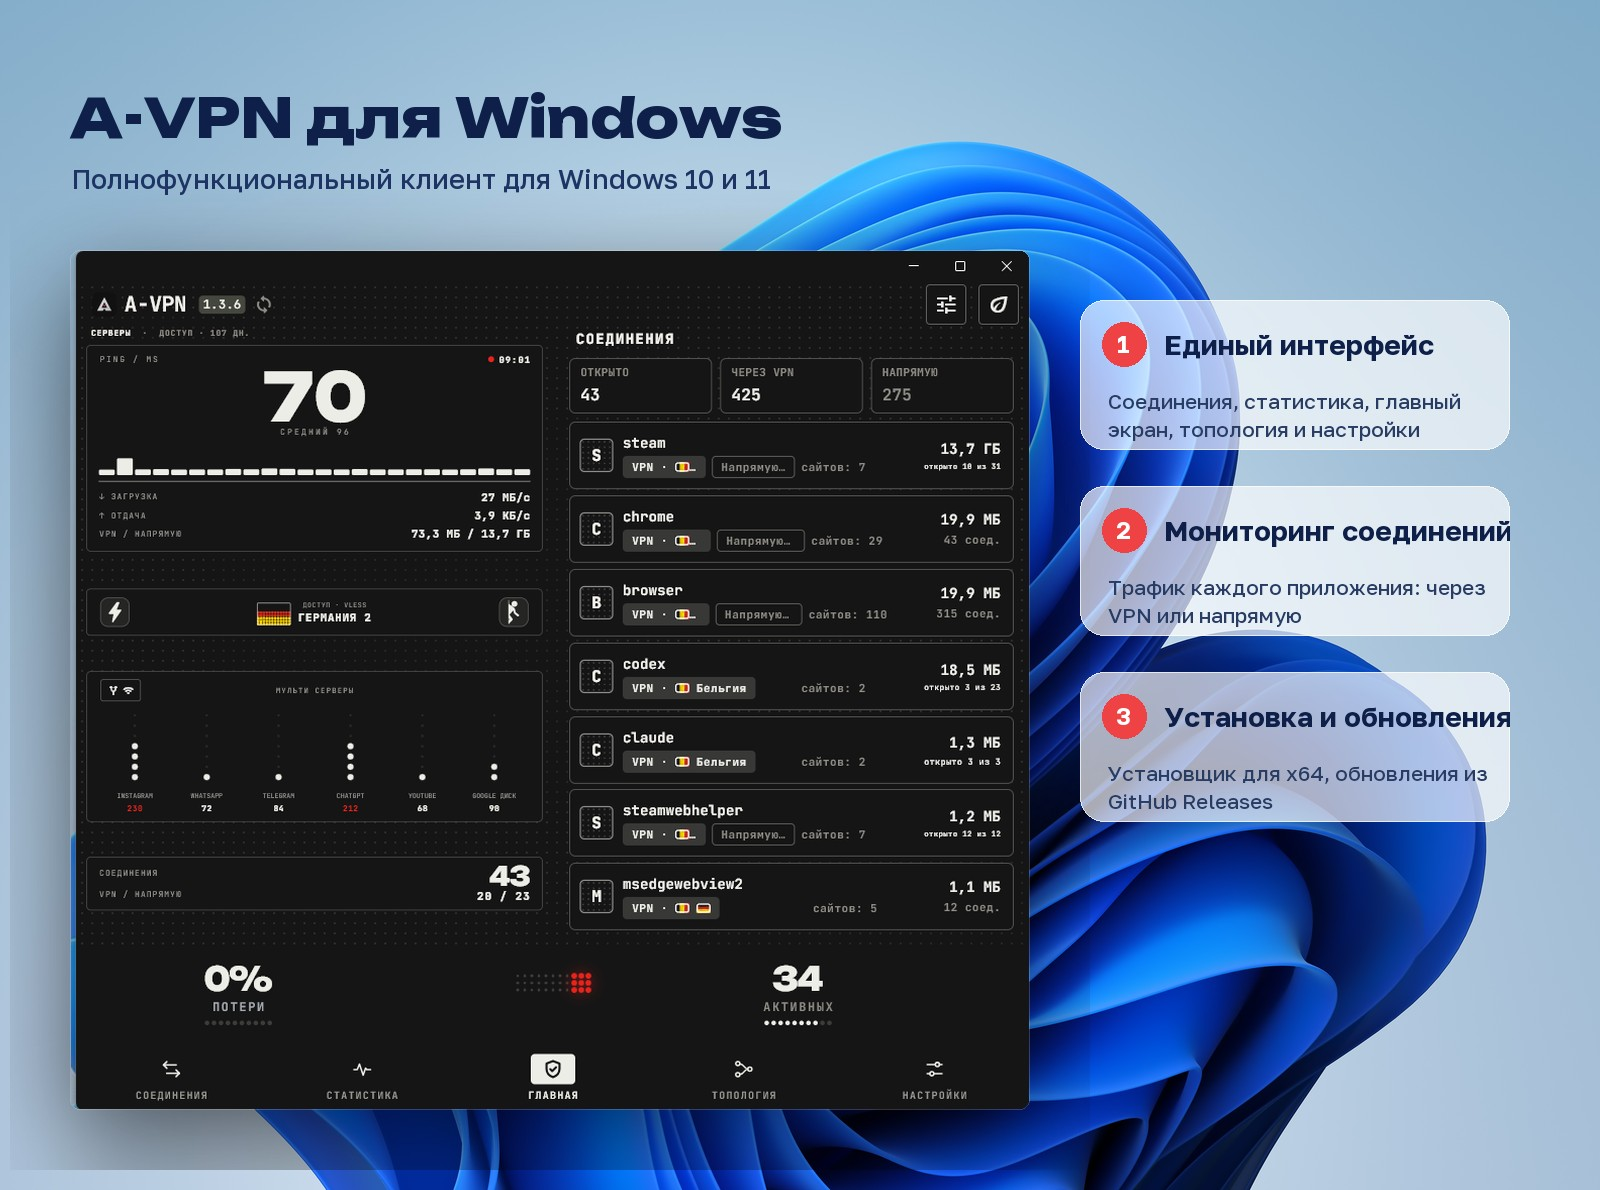
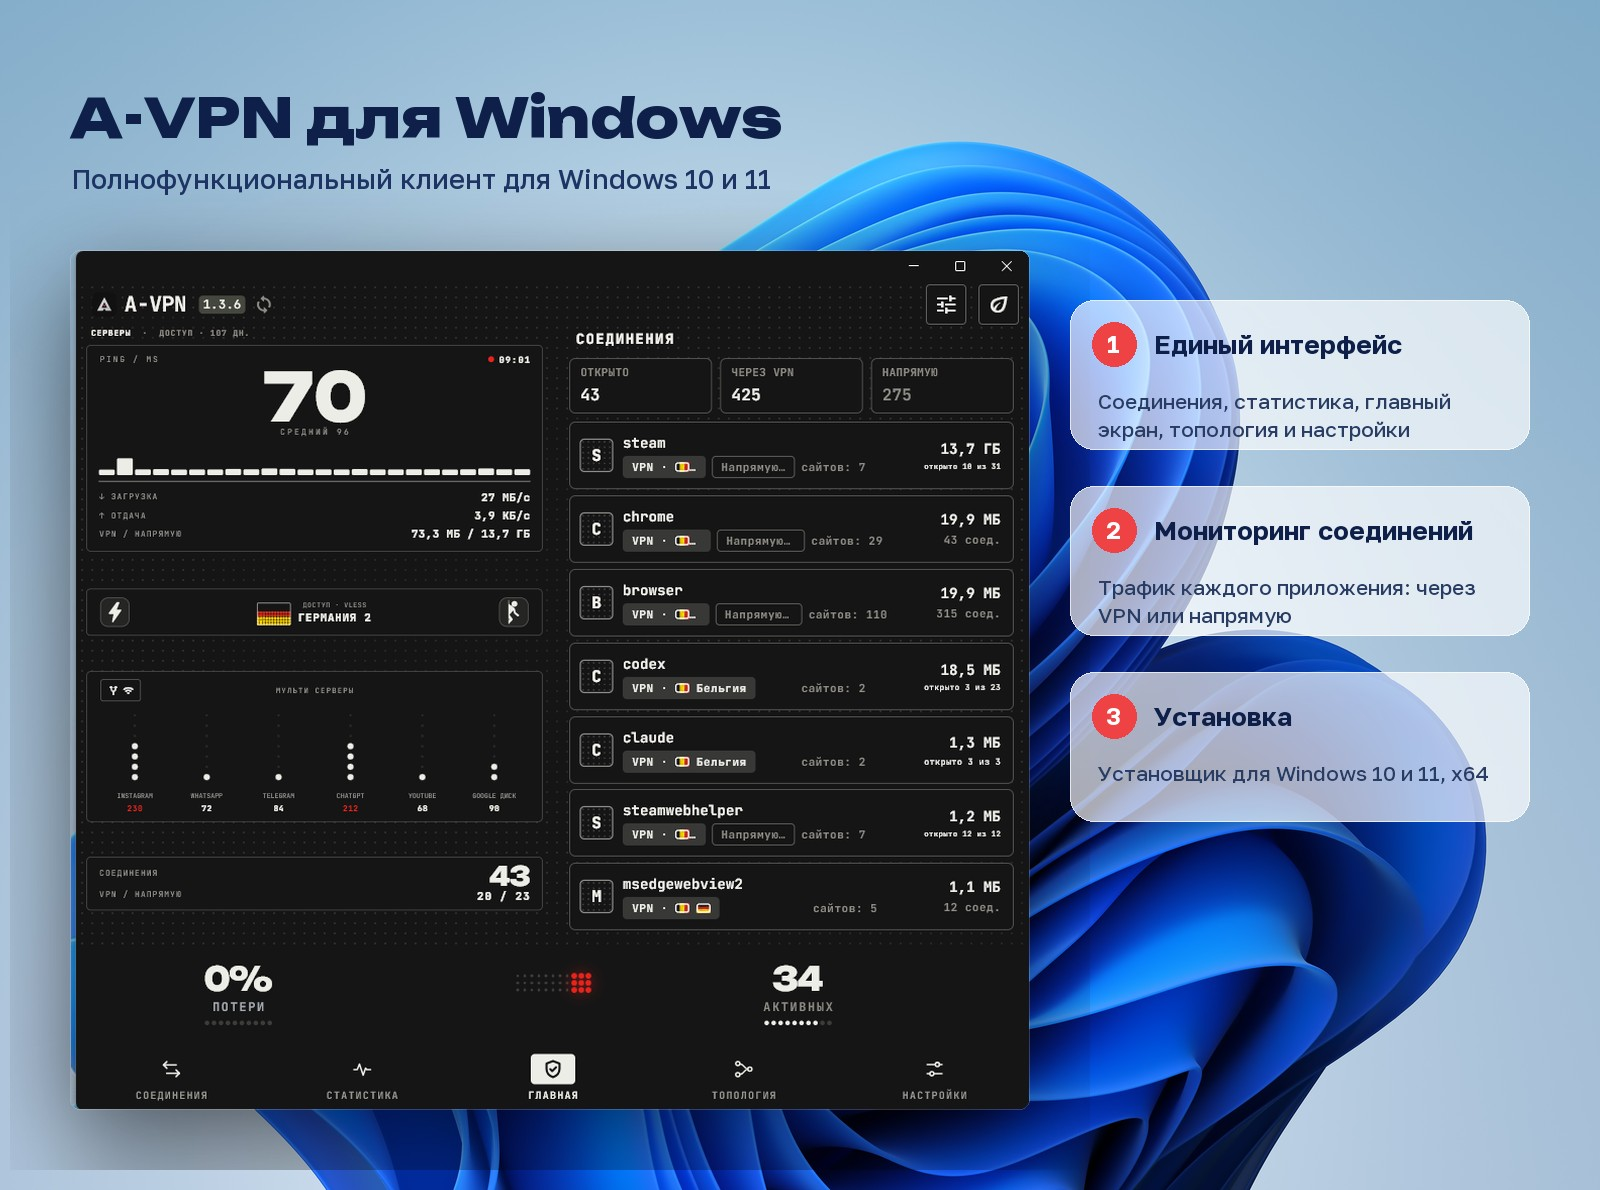
README: accurate platform claims, app's own mode name, full license badge, Windows cards fit

diff --git a/README.md b/README.md
@@ -5,7 +5,8 @@
 <h1 align="center">A-VPN</h1>
 
 <p align="center">
-  VPN-клиент для Android и Windows с автоматическим переключением между Wi-Fi и мобильной сетью.
+  VPN-клиент для Android и Windows на ядре sing-box.<br>
+  На Android автоматически переключается между Wi-Fi и мобильной сетью.
 </p>
 
 <p align="center">
@@ -13,7 +14,7 @@
   <a href="https://github.com/Aramikkk/A-VPN/releases"><img alt="Downloads" src="https://img.shields.io/github/downloads/Aramikkk/A-VPN/total?label=downloads"></a>
   <img alt="Android" src="https://img.shields.io/badge/Android-7%2B%20%C2%B7%20arm64-3ddc84">
   <img alt="Windows" src="https://img.shields.io/badge/Windows-10%2B%20%C2%B7%20x64-0078d4">
-  <a href="LICENSE.md"><img alt="License" src="https://img.shields.io/badge/license-GPL%20v3-blue"></a>
+  <a href="LICENSE.md"><img alt="License" src="https://img.shields.io/badge/license-Hiddify%20Extended%20GPL%20v3-blue"></a>
 </p>
 
 <p align="center">
@@ -26,7 +27,7 @@
   <img src="docs/screenshots/handoff.jpg" alt="Бесшовный переход между Wi-Fi и LTE">
 </p>
 
-A-VPN определяет смену сети и сам применяет набор серверов, назначенный для неё: основной пул для Wi-Fi и серверы для белых списков для мобильной сети. Соединение сохраняется, действий от пользователя не требуется.
+На Android A-VPN определяет смену сети и сам применяет набор серверов, назначенный для неё: основной пул для Wi-Fi и серверы для белых списков для мобильной сети. Соединение сохраняется, действий от пользователя не требуется.
 
 ## Загрузка
 
@@ -78,7 +79,7 @@ A-VPN определяет смену сети и сам применяет на
 - Несколько подписок в едином списке: приоритетная подписка, порядок, отдельное включение.
 - Автоматический выбор по задержке с отдельным допуском для Wi-Fi и мобильной сети.
 - Выбор самого быстрого сервера в одно нажатие с возвратом к автовыбору при ухудшении связи.
-- Режим «Меньше переключений»: сервер сохраняется, пока соединение стабильно.
+- Режим «Меньше прыжков»: сервер сохраняется, пока соединение стабильно.
 - Отдельный сервер для выбранных сервисов и приложений.
 
 **Маршрутизация**
@@ -124,7 +125,7 @@ A-VPN определяет смену сети и сам применяет на
 95:CC:05:9F:8E:1A:E2:E0:B8:59:43:66:6E:C4:5D:D3:2D:66:F8:1E:80:7B:3F:6E:7A:D6:CD:75:BE:A6:B1:9A
 ```
 
-Приложение ежедневно проверяет наличие обновлений в Releases. Загрузка идёт в несколько потоков с докачкой, файл проверяется по SHA-256.
+На Android приложение ежедневно проверяет наличие обновлений в Releases. Загрузка идёт в несколько потоков с докачкой, файл проверяется по SHA-256.
 
 ## Конфиденциальность
 
